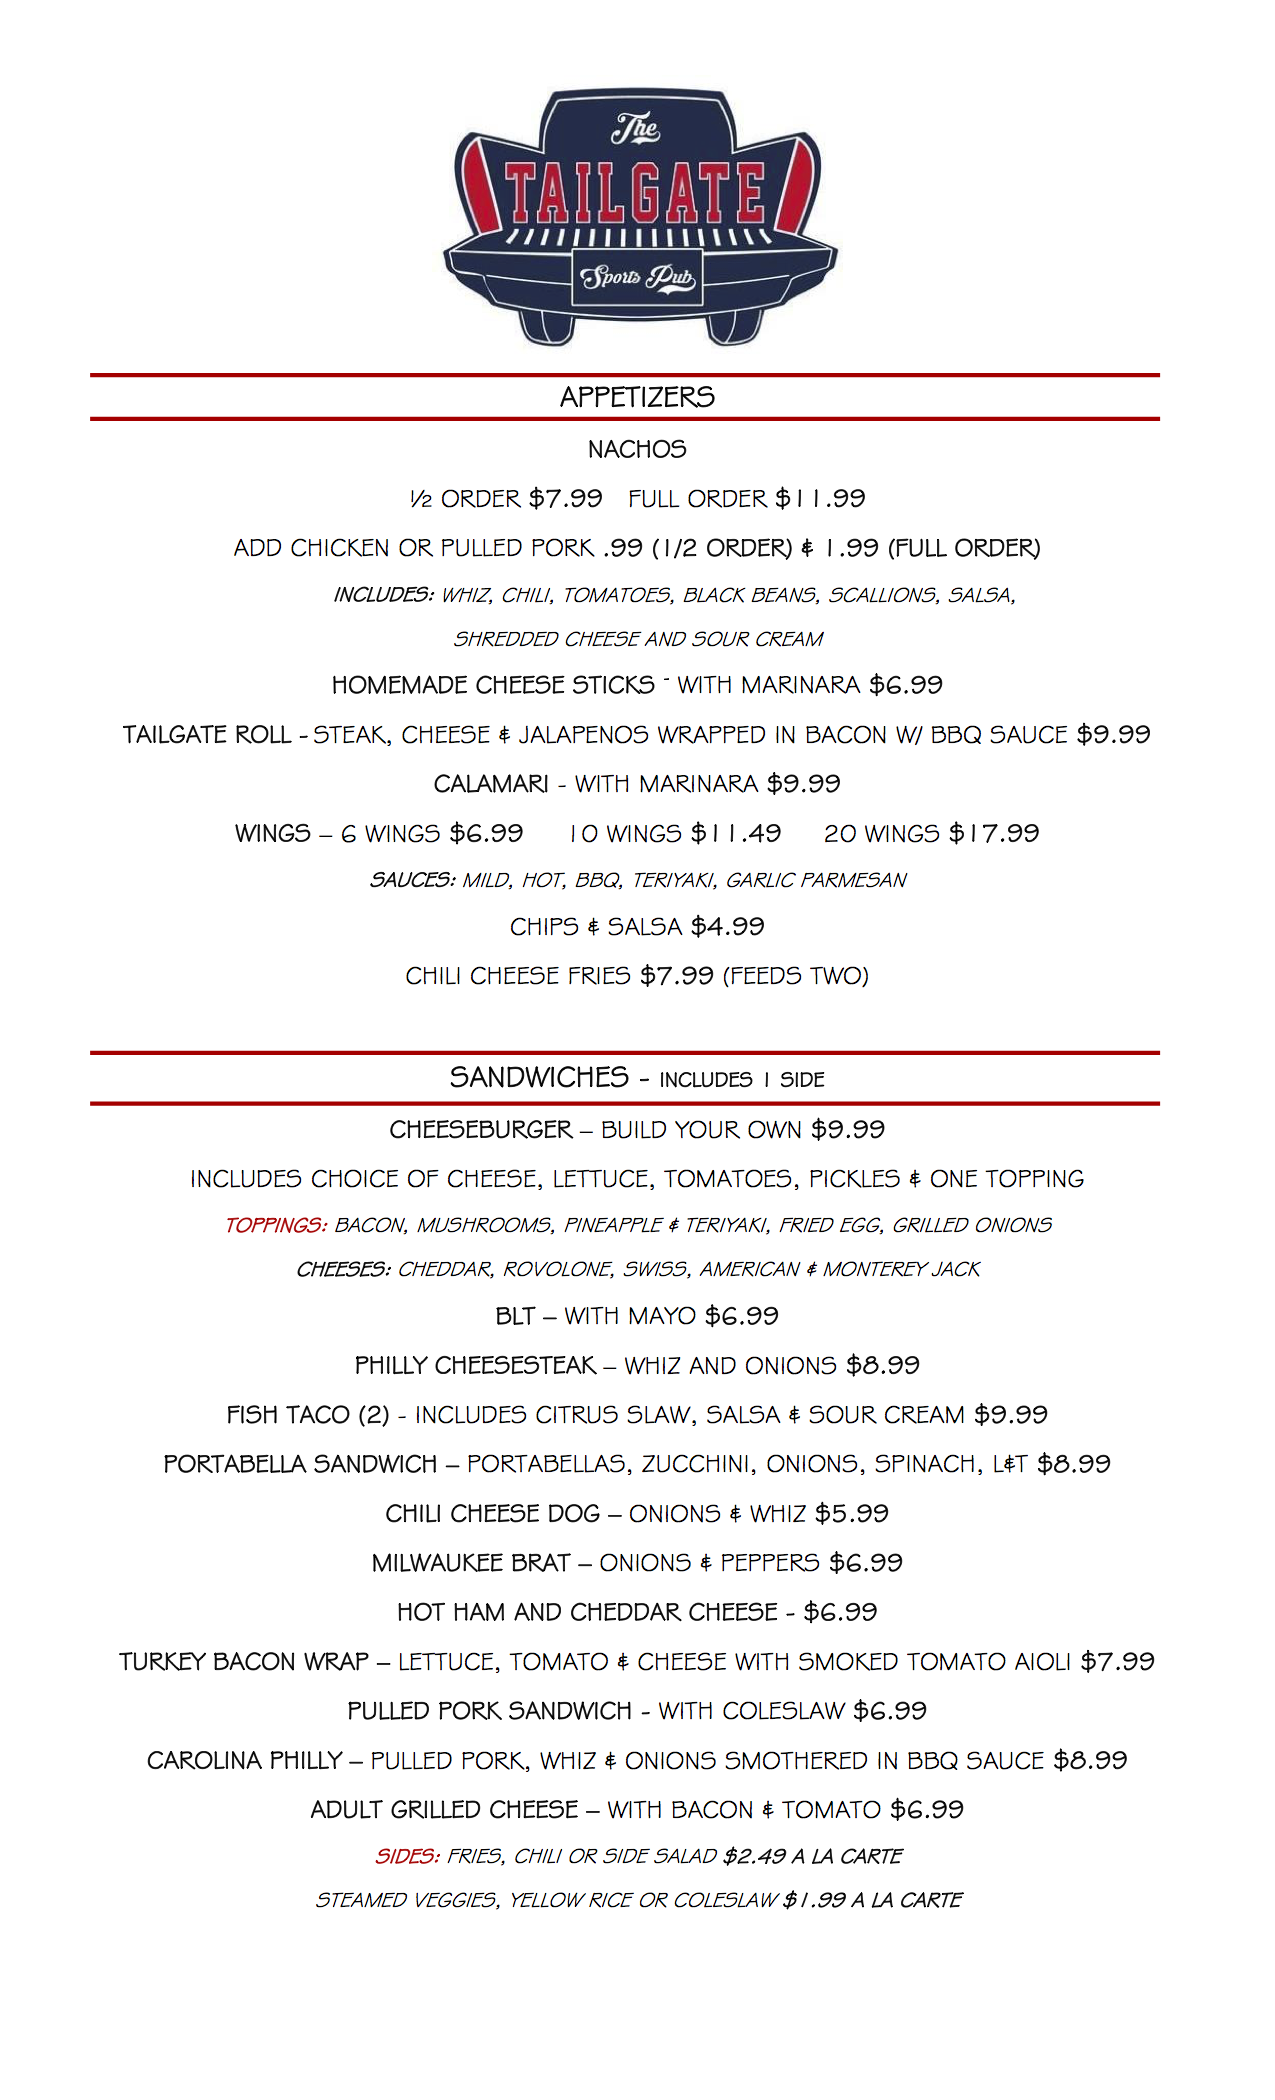
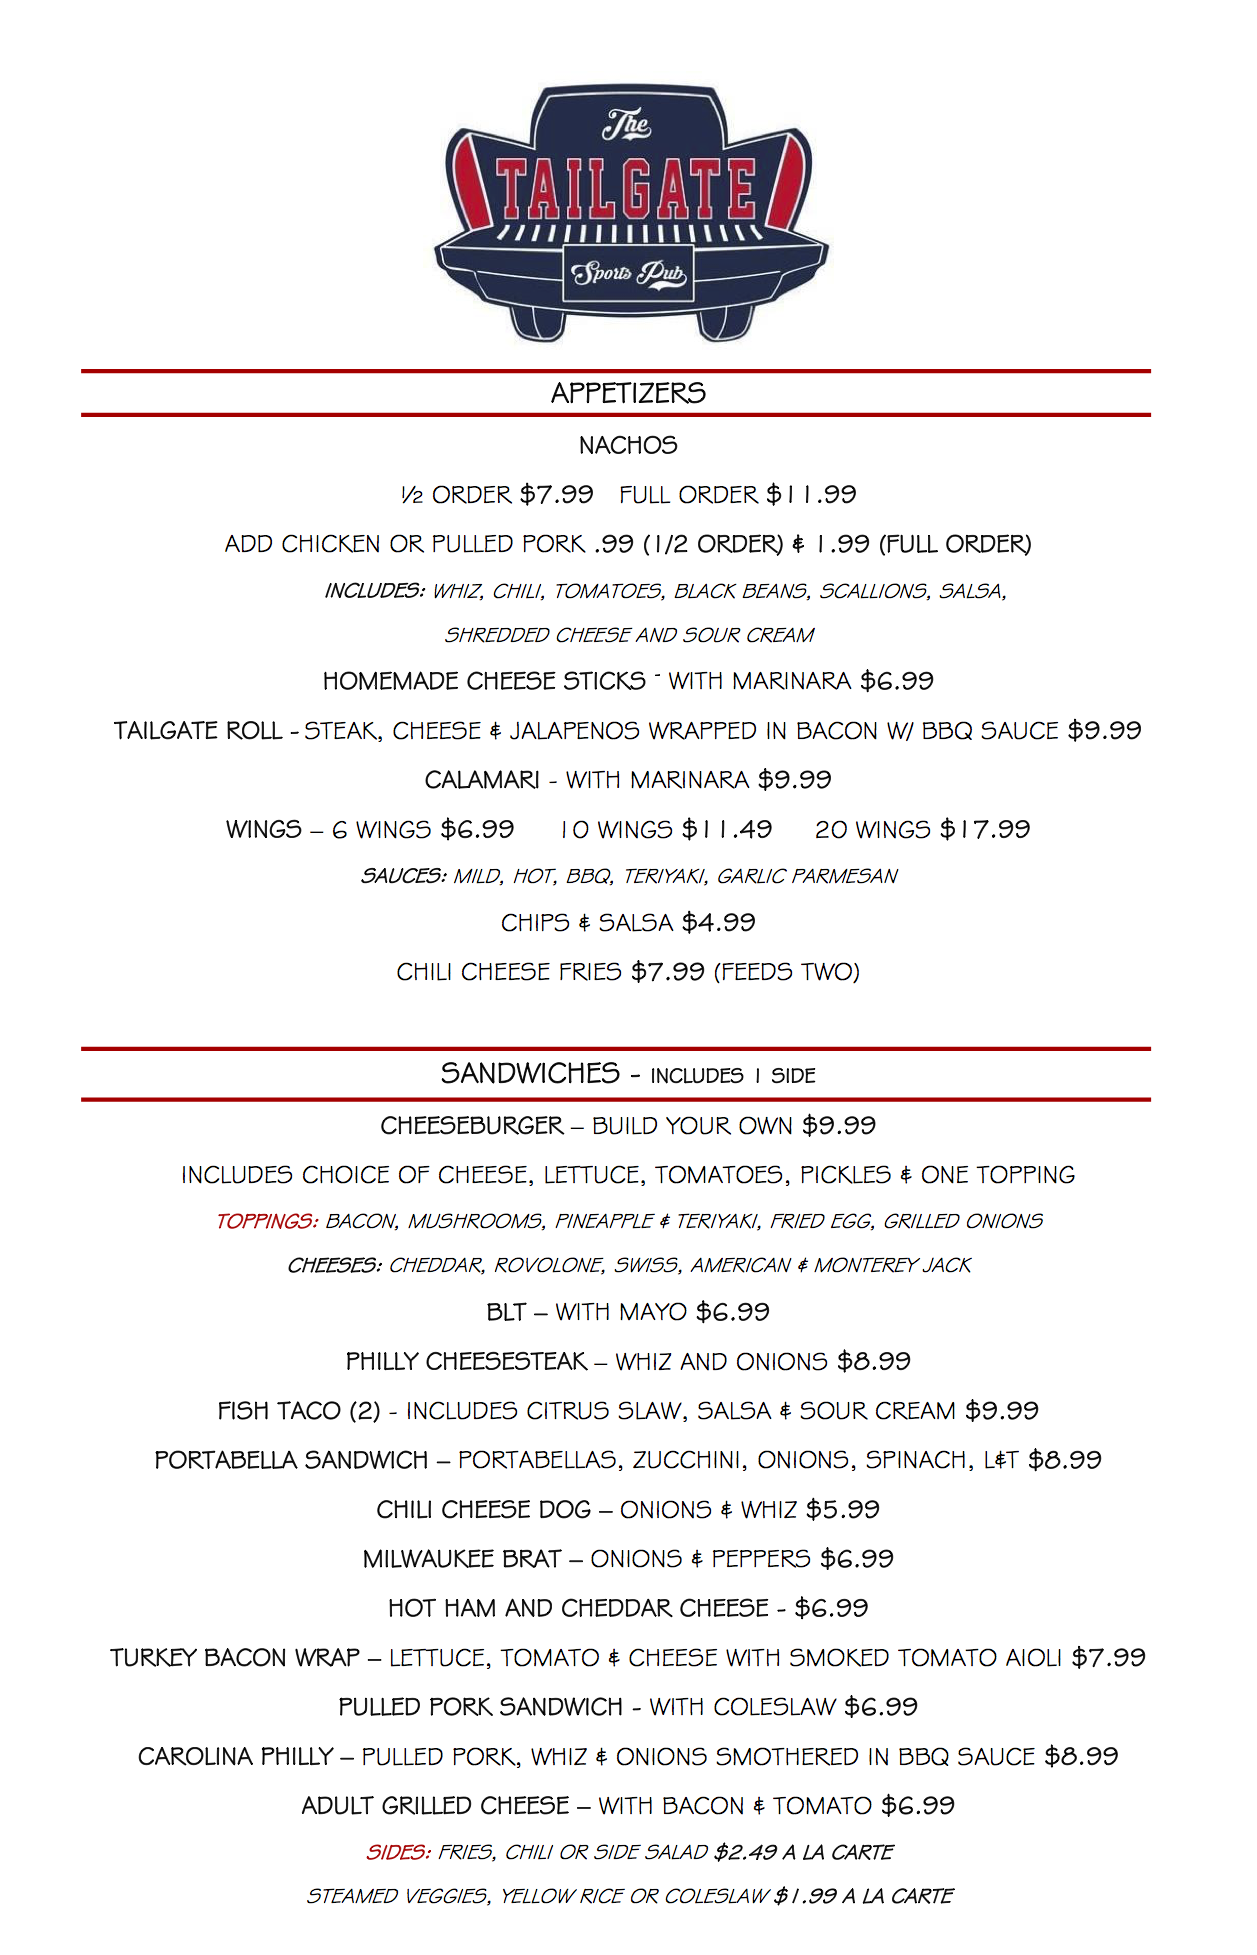
update menu to have less white space, remove events section until we ad draft party promo

Changed region(s): [[0.0621, 0.0312, 0.9308, 0.9985], [0.2792, 0.9673, 0.3103, 0.9985]]

diff --git a/views/index.html b/views/index.html
@@ -14,7 +14,7 @@
 	<link rel="stylesheet" href="css/responsive.css">
 	<link rel="stylesheet" type="text/css" href="css/settings.css" media="screen" />
 	<link href='http://fonts.googleapis.com/css?family=Noto+Sans:400,700%7CBenchNine:300,400,700' rel='stylesheet' type='text/css'>
-	<script src="js/libs/jquery-1.11.2.js"></script>	
+	<script src="js/libs/jquery-1.11.2.js"></script>
 	<script src="js/libs/jquery-migrate.min.js"></script>
 	<script src="js/libs/modernizr-2.6.2.min.js"></script>
 	<script>
@@ -52,24 +52,24 @@
 						</li>
 						<li>
 							<a href="/contact">Contact</a>
-						</li>	
+						</li>
 					</ul>
 				</div>
 			</nav>
 			<div class="clearfix"></div>
 		</div>
 	</header>
-	
+
 	<div id="pro-home-slider"><!-- START REVOLUTION SLIDER 4.6.0 fullwidth mode -->
 		<div id="rev_slider_1_1_wrapper" class="rev_slider_wrapper fullwidthbanner-container">
 			<div id="rev_slider_1_1" class="rev_slider fullwidthabanner">
 				<ul>
 					<!-- SLIDE  -->
 					<li data-transition="zoomin" data-slotamount="7" data-masterspeed="300" data-thumb="http://placehold.it/320x200"  data-saveperformance="off"  data-title="Slide 1">
-						
+
 						<!-- MAIN IMAGE -->
 						<img class="responsive-image" src="images/dummy.png"  alt="main-slider-1" data-lazyload="images/tailgatebar.jpg" data-bgposition="center top" data-bgfit="cover" data-bgrepeat="no-repeat">
-						
+
 						<!-- LAYERS -->
 
 						<!-- LAYER NR. 1 -->
@@ -86,9 +86,9 @@
 							 data-endspeed="500"
 							data-endeasing="Power1.easeOut"
 						>
- -->				
+ -->
  						<div class="tp-caption Heading-Light-Growler sfb tp-resizeme responsive-image" data-x="260"
-							 data-y="50" data-voffset="0">		
+							 data-y="50" data-voffset="0">
 						<img class="center responsive-image" src="images/dummy.png" data-lazyload="images/tgvblogo.png">
      					<strong>WELCOME TO THE TAILGATE SPORTS PUB<br /></strong>
 						</div>
@@ -104,15 +104,15 @@
 							<a href="/menu">VIEW OUR MENU</a>
 						</div>
 					</li>
-					
+
 				</ul>
 				<div class="tp-bannertimer tp-bottom"></div>
 			</div>
 		</div><!-- END REVOLUTION SLIDER -->
 	</div>
-	
 
-	<div id="main">
+
+	<!-- <div id="main">
 		<div class="widget home-widget pyre_homepage_media-port" id="pyre_homepage_media-widget-port-2">
 			<div class="pyre_homepage_media-widget-port-2 portfolio-posts-home light-fonts-pro">
 				<div class="width-container">
@@ -139,14 +139,14 @@
 										</span>
 									</div>
 									<!-- <a class="progression-button view-event-btn-pro" href="single-event.html">View Event</a> -->
-								</div>
+								<!-- </div>
 							</div>
 						</article>
 
 						<div class="clearfix"></div>
 					</div><!-- close .grid -->
 
-					<div class="home-portfolio-boxes grid4column-progression">
+					<!-- <div class="home-portfolio-boxes grid4column-progression">
 						<article>
 							<div class="event-container-pro">
 								<div class="featured-event-img">
@@ -168,24 +168,24 @@
 										</span>
 									</div>
 									<!-- <a class="progression-button view-event-btn-pro" href="teixeira-saintpreux.html">View Event</a> -->
-								</div>
+								<!-- </div>
 							</div>
-						</article>
+						</article> -->
 
-						<div class="clearfix"></div>
+						<!-- <div class="clearfix"></div>
 					</div><!-- close .grid -->
 
-					<div class="clearfix"></div>
-				</div><!-- close .width-container -->
-			</div><!-- close #portfolio-posts-home -->
-		</div>	
-	
-		<div id="pyre_homepage_media-widget-menu-2" class="widget home-widget pyre_homepage_media-menu">		
+					<!-- <div class="clearfix"></div> -->
+				<!-- </div><!-- close .width-container -->
+			<!-- </div><!-- close #portfolio-posts-home -->
+		<!-- </div>	  --> 
+
+		<div id="pyre_homepage_media-widget-menu-2" class="widget home-widget pyre_homepage_media-menu">
 			<div class="pyre_homepage_media-widget-menu-2 portfolio-posts-home">
 				<div class="width-container">
 					<h1 class="home-widget">Featured Beers</h1>
 					<div class="home-portfolio-boxes grid3column-progression">
-						<article>			
+						<article>
 							<div class="menu-index-pro">
 								<div class="menu-image-pro">
 									<a href="/images/bellstwohearted.jpg" rel="Bell's Two Hearted Ale"><img width="356" height="352" src="/images/bellstwohearted.jpg" class="attachment-progression-beers wp-post-image" alt="Bell's Two Hearted Ale" /></a>
@@ -202,18 +202,18 @@
 								</div>
 							<div class="clearfix"></div>
 							</div><!-- close .portfolio-index-text -->
-						</article><!-- #post-## -->				
+						</article><!-- #post-## -->
 					<div class="clearfix"></div>
 					</div><!-- close .grid -->
 					<div class="home-portfolio-boxes grid3column-progression">
-						<article>	
+						<article>
 							<div class="menu-index-pro">
 								<div class="menu-image-pro">
 									<a href="/images/odis.png" rel="O'Connors Dry Irish Stout"><img width="356" height="352" src="/images/odis.png" class="attachment-progression-beers wp-post-image" alt="red-ale" /></a>
 								</div>
 								<div class="menu-content-pro">
 									<h3>O'Connor's Dry Irish Stout</h3>
-									<div class="pro_sub_header">ABV: 4.5% 
+									<div class="pro_sub_header">ABV: 4.5%
 										<br>
 										<a href="http://www.beeradvocate.com/beer/profile/22783/66890/">BA Score </a>: NR
 									</div>
@@ -223,7 +223,7 @@
 								</div>
 								<div class="clearfix"></div>
 							</div><!-- close .portfolio-index-text -->
-						</article><!-- #post-## -->				
+						</article><!-- #post-## -->
 					<div class="clearfix"></div>
 					</div><!-- close .grid -->
 					<div class="home-portfolio-boxes grid3column-progression lastcolumn-progression">
@@ -234,7 +234,7 @@
 								</div>
 								<div class="menu-content-pro">
 									<h3>Young Veterans Pineapple Grenade</h3>
-									<div class="pro_sub_header">ABV: 5.6% 
+									<div class="pro_sub_header">ABV: 5.6%
 										<br>
 										<a href="http://www.beeradvocate.com/beer/profile/32954/102851/">BA Score</a>: NR
 									</div>
@@ -244,10 +244,10 @@
 								</div>
 								<div class="clearfix"></div>
 							</div><!-- close .portfolio-index-text -->
-						</article><!-- #post-## -->				
+						</article><!-- #post-## -->
 					<div class="clearfix"></div>
 					</div><!-- close .grid -->
-				<div class="clearfix"></div>				
+				<div class="clearfix"></div>
 				</div><!-- close .width-container -->
 			</div><!-- close #portfolio-posts-home -->
 		</div>
@@ -256,31 +256,31 @@
 	</div><!-- close #main -->
 
 
-<!-- 	<div id="pyre_homepage_media-widget-product-feat-2" class="widget pyre_homepage_media-product-feat">		
+<!-- 	<div id="pyre_homepage_media-widget-product-feat-2" class="widget pyre_homepage_media-product-feat">
 		<div class="footer-highlight">
 			<div class="width-container">
-				<h2 class="footer-highlight-widget">Newsletter</h2>	
+				<h2 class="footer-highlight-widget">Newsletter</h2>
 				<div class="summary-text-pro">Subscribe to our newsletter and recieve special offers and discounts.</div>
 				<div class="newletter-container">
 					<div id="mc_embed_signup"><form action="//progressionstudios.us1.list-manage.com/subscribe/post?u=1a06aa3bca8613232881e8a6e&amp;id=2f5a556941" method="post" id="mc-embedded-subscribe-form" name="mc-embedded-subscribe-form" class="validate" target="_blank" novalidate=""><div class="mc-field-group"> <label for="mce-EMAIL">Enter Your Email Address </label> <input type="email" value="" name="EMAIL" class="required email" id="mce-EMAIL" placeholder="Enter Your E-mail Address"></div><div id="mce-responses" class="clear"><div class="response" id="mce-error-response" style="display:none"></div><div class="response" id="mce-success-response" style="display:none"></div></div><div style="position: absolute; left: -5000px;"><input type="text" name="b_1a06aa3bca8613232881e8a6e_2f5a556941" tabindex="-1" value=""></div><div class="clear"><input type="submit" value="Go" name="subscribe" id="mc-embedded-subscribe" class="button"></div></form></div>
-					
+
 				</div>
 			<div class="clearfix"></div>
 			</div>
 		</div>
 	</div> -->
-	
+
 	<div id="widget-area">
 		<div class="width-container footer-3-column">
 			<div id="pyre_social_media-widget-feat-2" class="widget pyre_social_media-feat">
 				<h2 class="widget-title">Our Location</h2>
-				<div class="social-icons-widget-pro">	
+				<div class="social-icons-widget-pro">
 					<div>
 						<strong>The Tailgate Sports Pub</strong><br />
 						344 Constitution Drive Virginia Beach, VA 23462<br /><br />
 						<strong>Phone</strong>: 757-961-3468<br />
 						<strong>E-mail</strong>: thetailgatevb@gmail.com
-					</div>						
+					</div>
 					<div class="social-ico">
 						<a href="/contact"><i class="fa fa-map-marker"></i></a>
 						<a href="https://www.facebook.com/thetailgatevb" target="_blank"><i class="fa fa-facebook"></i></a>
@@ -291,8 +291,8 @@
 					</div><!-- close .social-ico -->
 				</div><!-- close .social-icons-widget-pro -->
 			</div>
-			
-			<div id="our-hours-widget-2" class="widget hours"><h2 class="widget-title">HOURS</h2>			
+
+			<div id="our-hours-widget-2" class="widget hours"><h2 class="widget-title">HOURS</h2>
 				<ul class="open-hours">
 					<li>
 						<div class="date-day grid2column-progression">Monday</div>
@@ -329,9 +329,9 @@
 						<div class="hours-date grid2column-progression lastcolumn-progression">11:00am - ?</div>
 						<div class="clearfix"></div>
 					</li>
-				</ul>	
+				</ul>
 			</div>
-			
+
 <!-- 			<div id="flickr-widget-2" class="widget flickr">
 				<h2 class="widget-title">Photos from Flickr</h2>
 				Important: In Order to change your Flickr ID number, edit the script.js file, and replace this number: 52617155@N08
@@ -362,7 +362,7 @@
 			<div class="clearfix"></div>
 		</div><!-- close #copyright -->
 	</footer>
-	
+
 <script src="js/plugins.js"></script>
 <script src="js/script.js"></script>
 <script src="js/libs/jquery-ui.min.js"></script>
